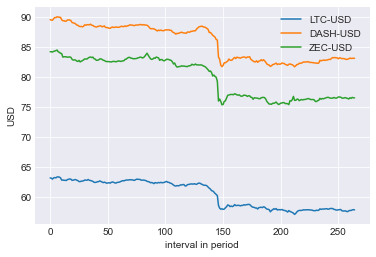
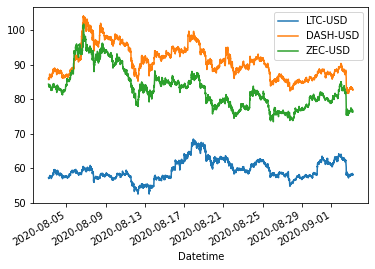
Sep2

diff --git a/ticker_display.py b/ticker_display.py
@@ -6,34 +6,25 @@ Created on Tue Sep  1 14:38:15 2020
 @author: Shaun Miller
 
 Here we design a program to display closing prices of selected currencies
-with perdiod of 1 day and 5 minute intervals.
+with perdiod of 1 month and 5 minute intervals.
 """
 
 import yfinance as yf
 import pandas as pd
 import matplotlib.pyplot as plt
 
-
-def get_display(df): #creats plot of entered dataframe
-    plt.style.use('seaborn-darkgrid')    
-    for tick in df.keys(): plt.plot(range(len(df)), df[tick], label = tick)
-    plt.legend(loc=0, ncol=1)
-    plt.ylabel("USD")
-    plt.xlabel('interval in period')
-    plt.show()
-    
 cl_price = pd.DataFrame()
 currencys = ['LTC-USD', 'DASH-USD', 'ZEC-USD']
 ohlcv_data = {}
 
 for tick in currencys: 
     #ohlcv_data[tick] = yf.download(tick, period = '1mo', interval = '5m')
-    ohlcv_data[tick] = yf.download(tick, period = '1d', interval = '5m')
+    ohlcv_data[tick] = yf.download(tick, period = '1mo', interval = '5m')
 #data = yf.download('MSFT', period = '1mo', interval = '5m' )
 
 for tick in currencys: cl_price[tick] = ohlcv_data[tick]['Adj Close']
 
 cl_price.fillna(method='ffill', inplace = True) #fills NAN forward
 
-
+cl_price.plot()
 

diff --git a/README.md b/README.md
@@ -1,9 +1,5 @@
 # crypto
 Here we use tools such as the pandas and yfinance python packages to analyze cryptocurreny.
-Currently, the only tool in the repository displays the closing prices of a specified period on a specified interval. Typing the following in the Python Shell after executing the program results in the featured graph:
-
-```
->>> get_display(cl_price)
-```
+Currently, the only tool in the repository displays the closing prices of a specified period on a specified interval. Here the ticker tool creates a graph of 1 month with 5 minute intervals.
 
 ![alt text](https://github.com/shaunmillerc1010/crypto/blob/master/ticker_example.png)
